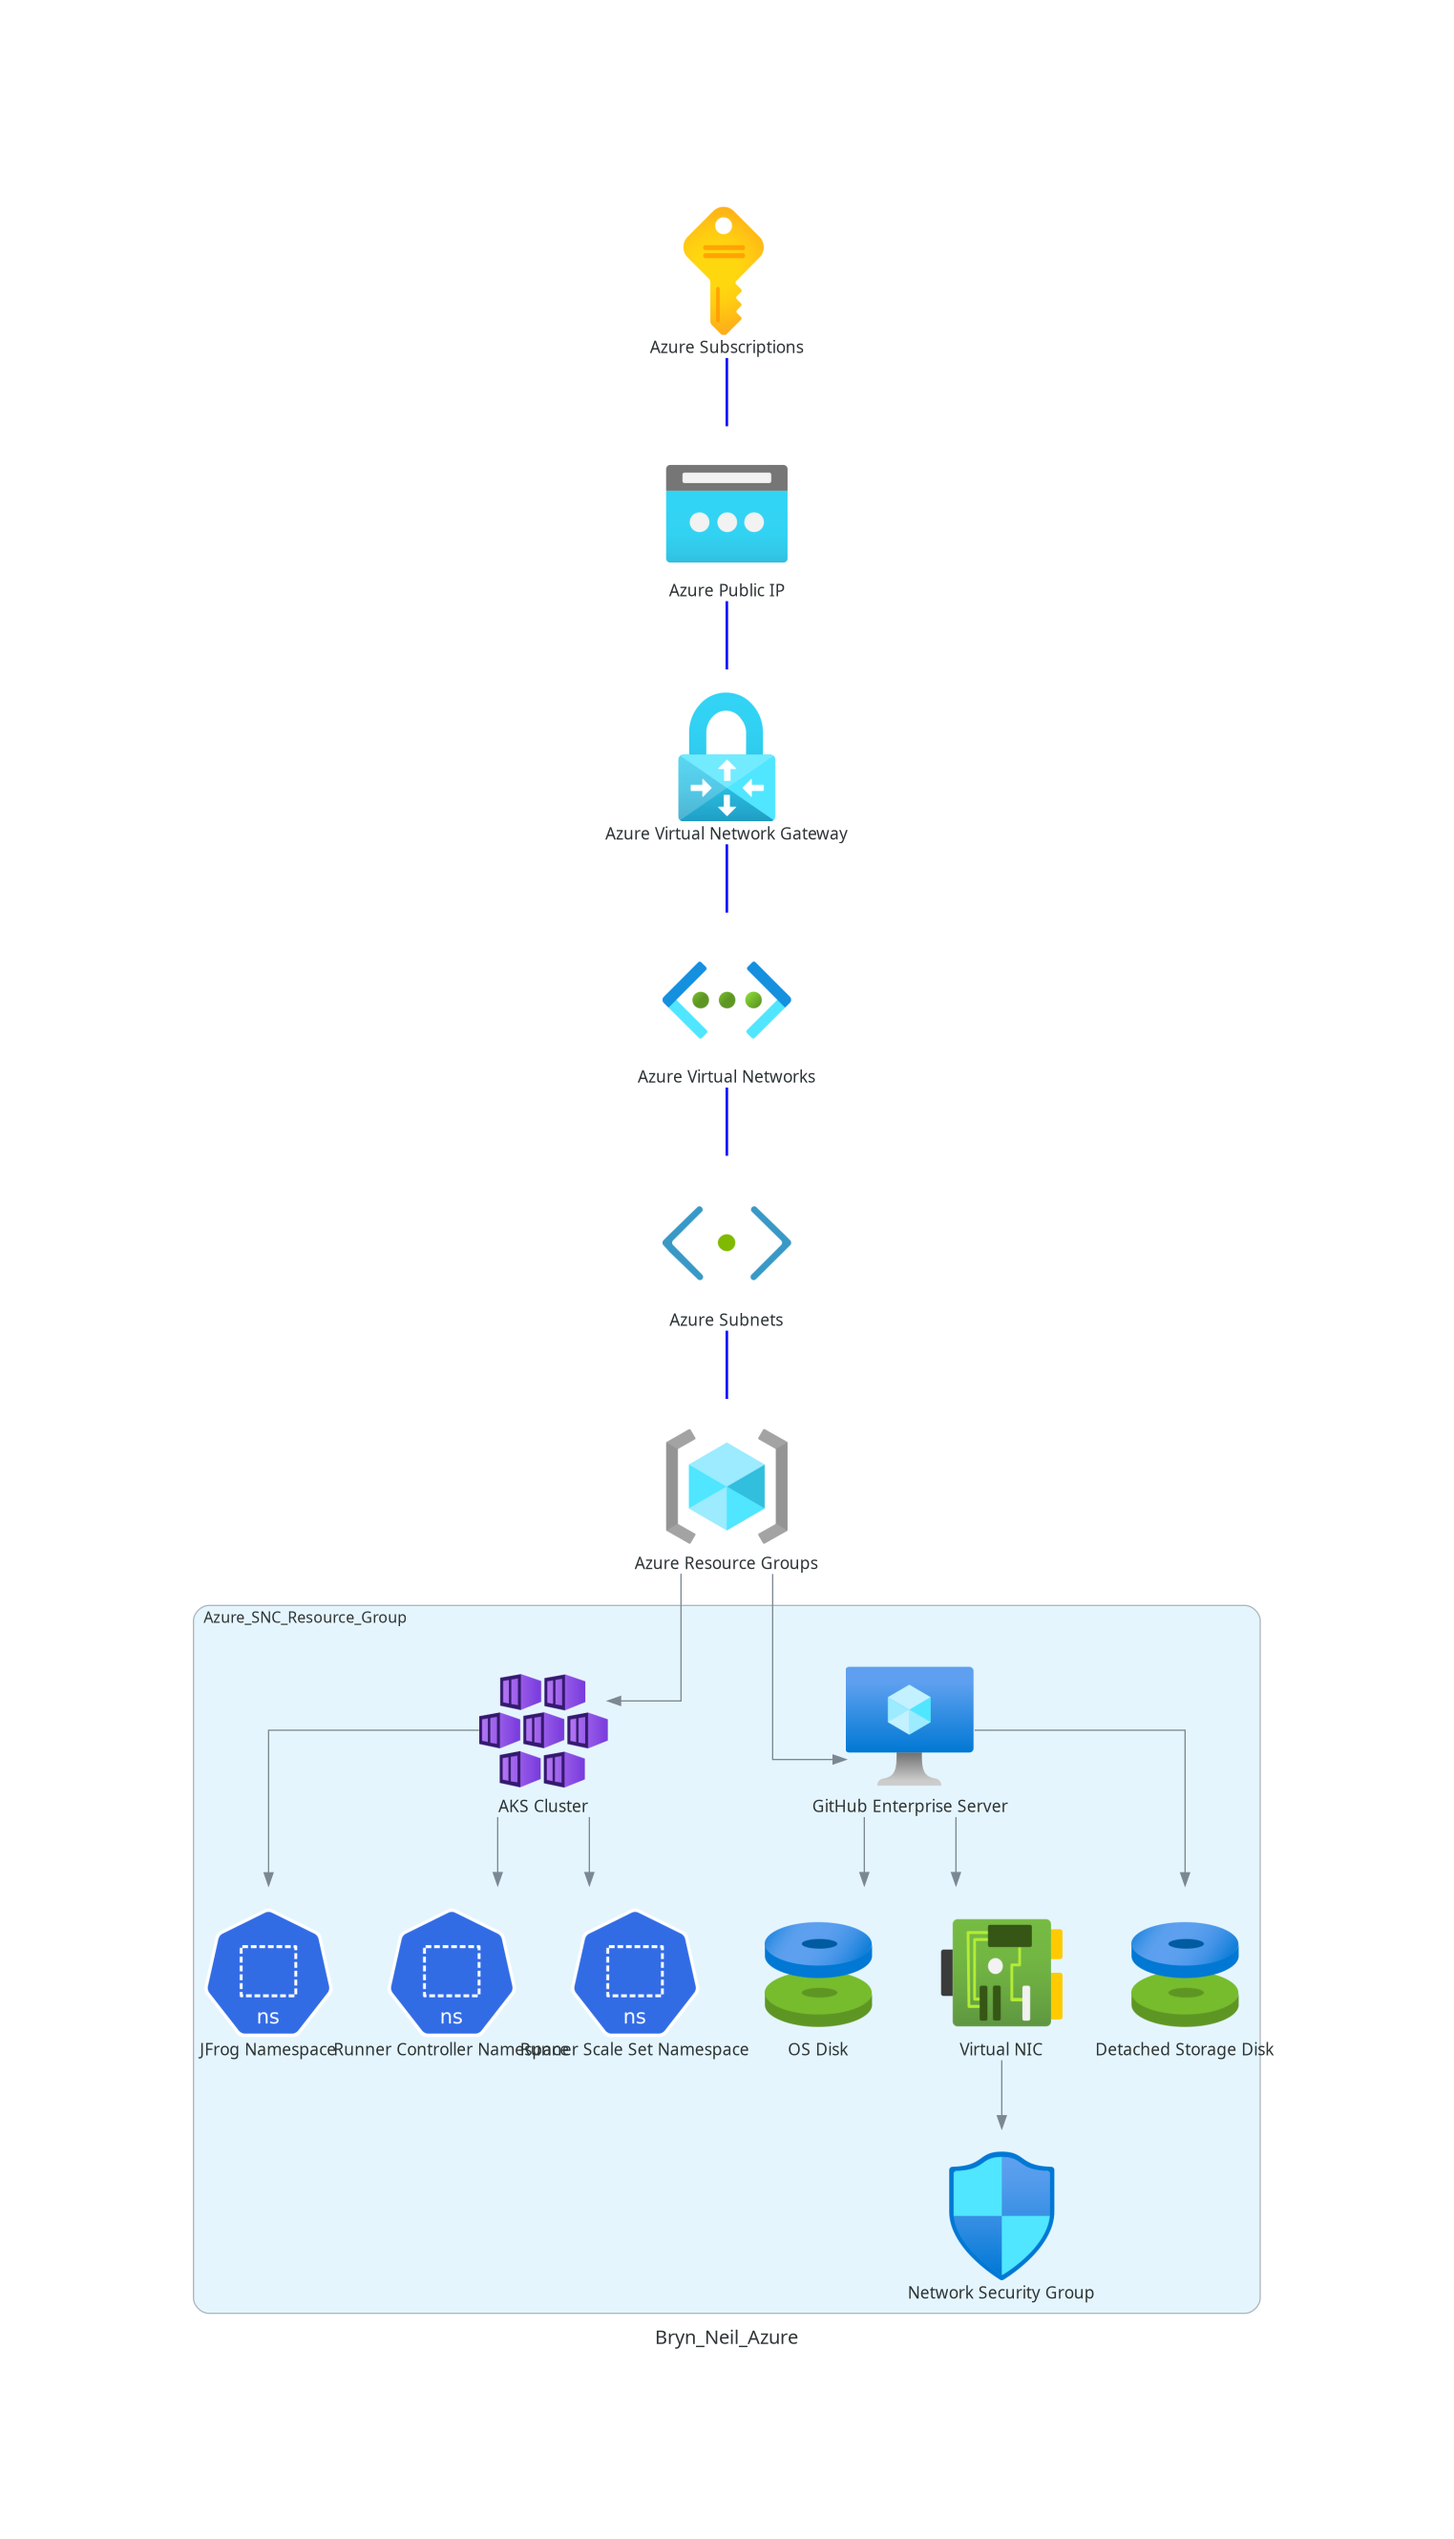
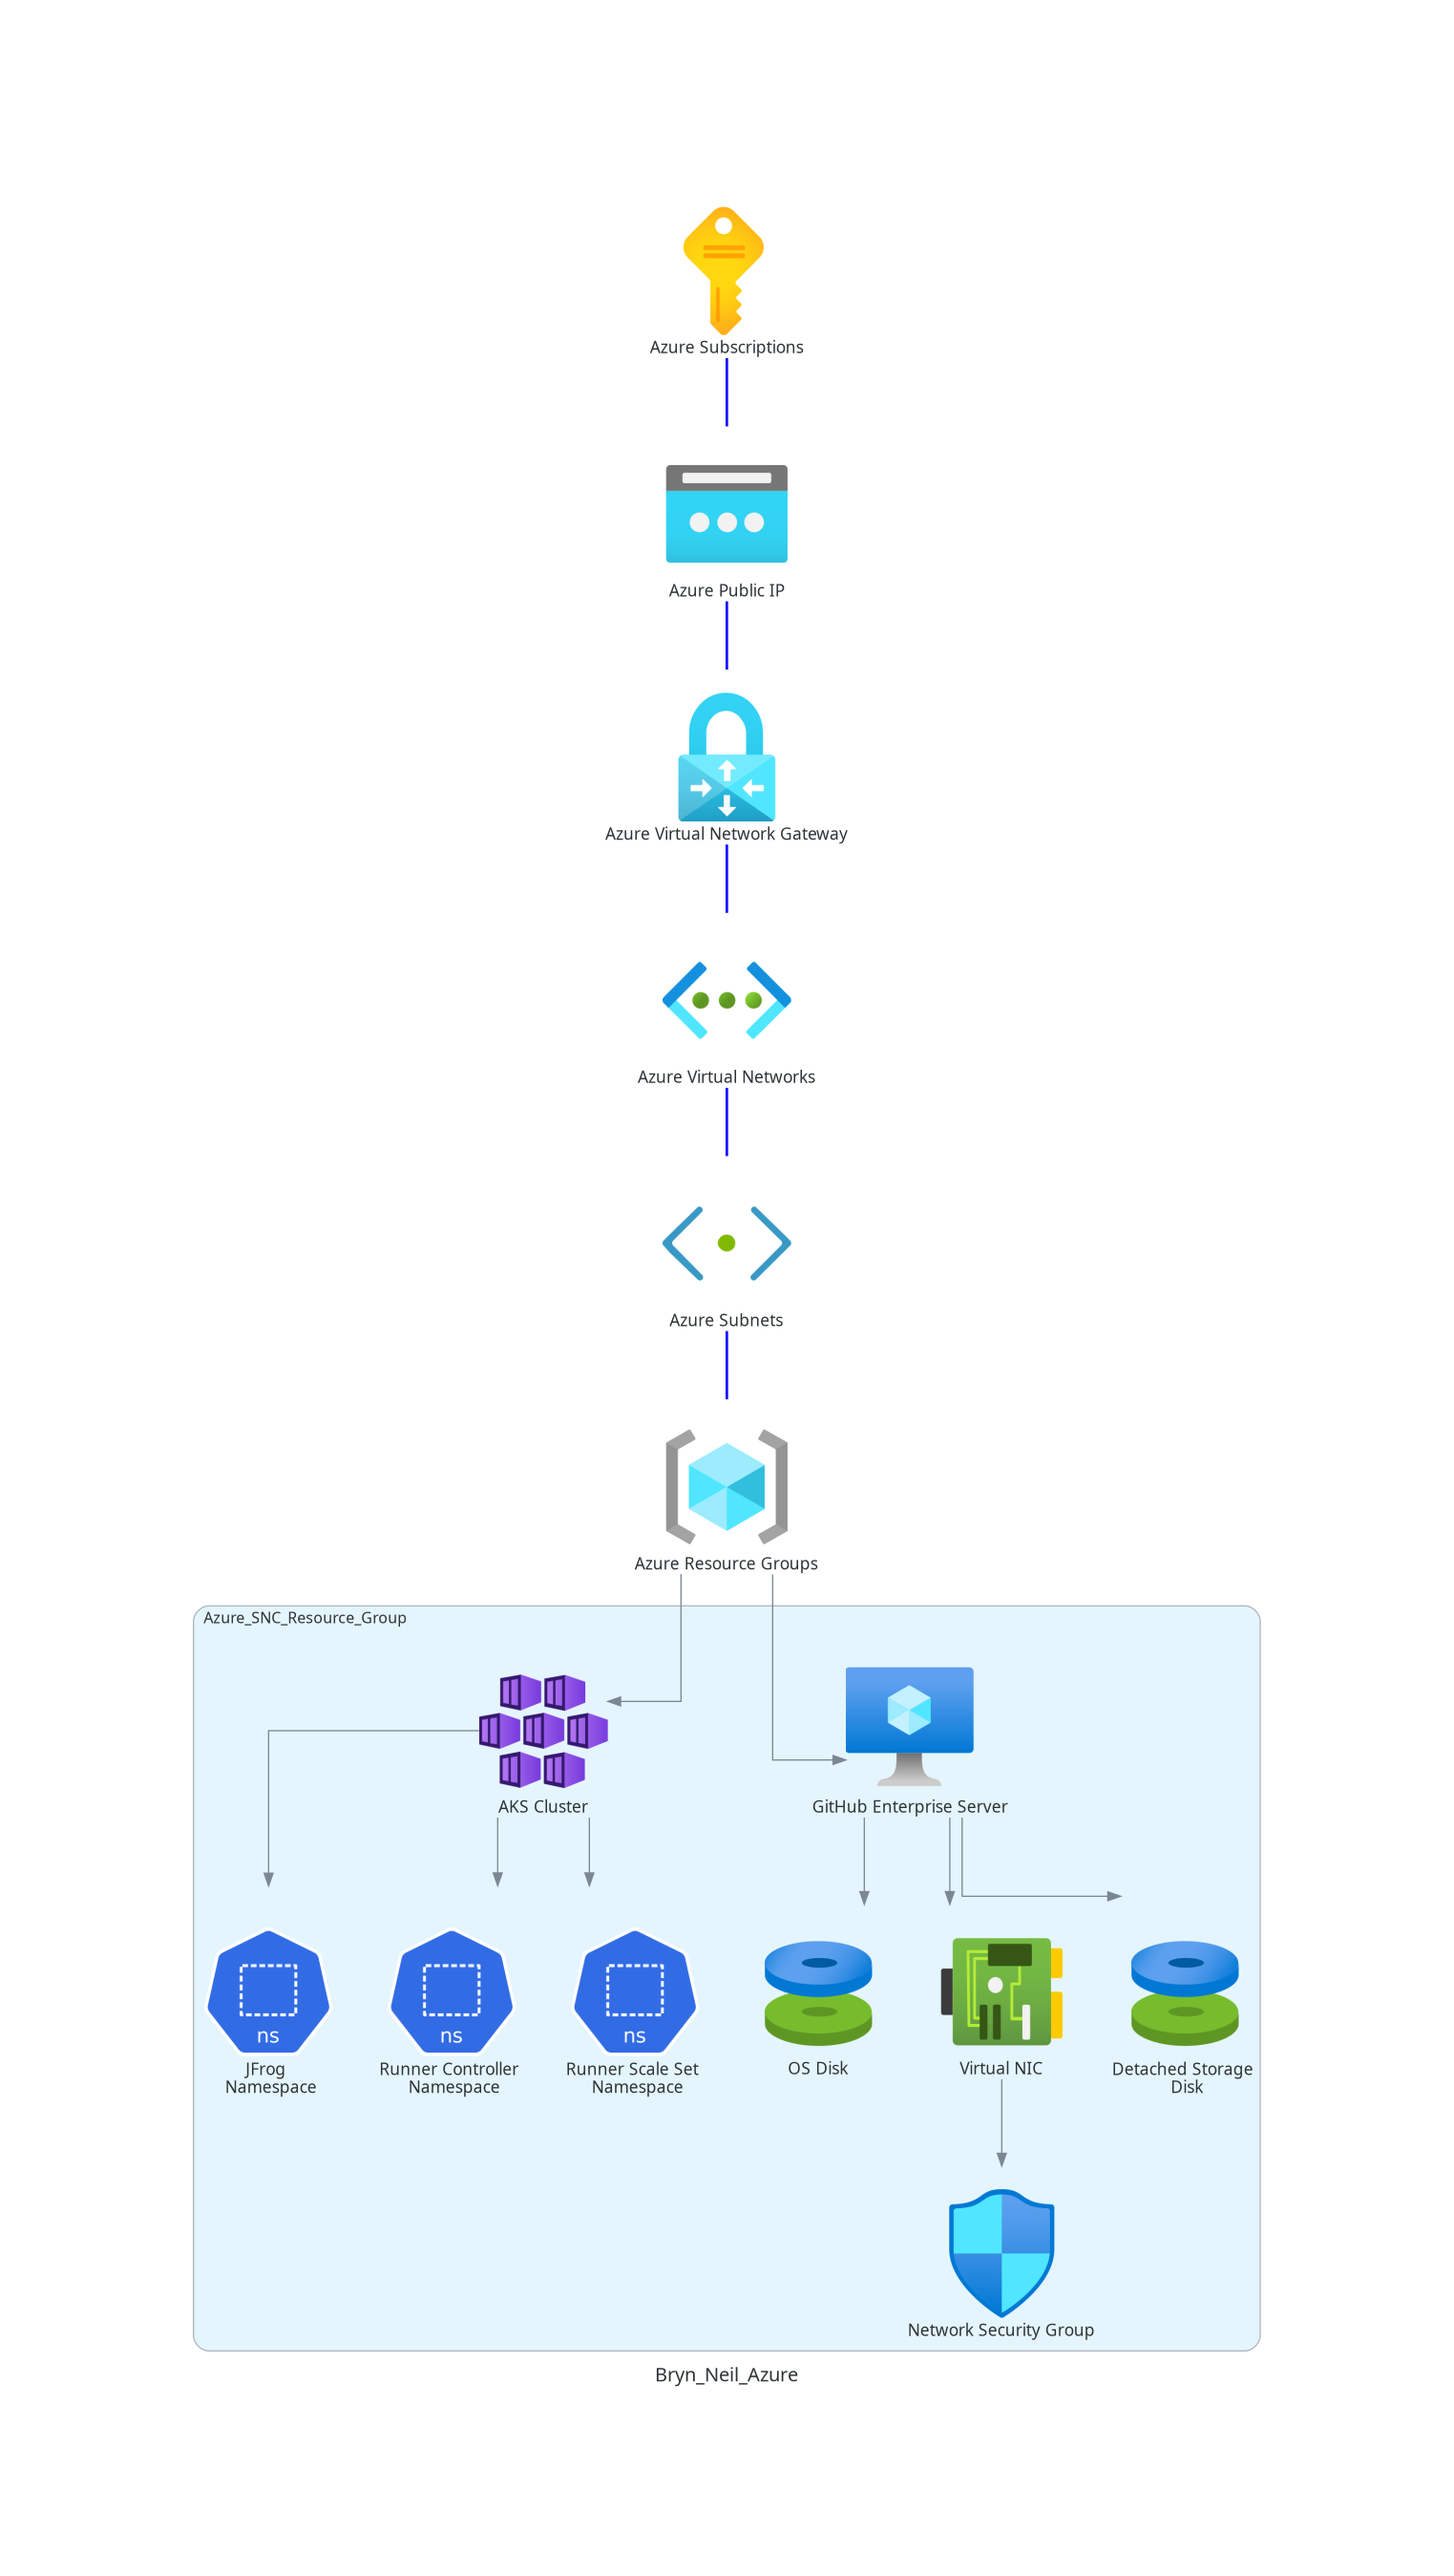
Let's make a diagram.

diff --git a/python_diagrams_vnv/Azure_Diagram.py b/python_diagrams_vnv/Azure_Diagram.py
@@ -23,15 +23,15 @@ with Diagram("Bryn_Neil_Azure", direction="TB", show=False):
     with Cluster("Azure_SNC_Resource_Group"):
         ghes_azure_appliance = diagrams.azure.compute.VM("GitHub Enterprise Server")
         
-        ghes_storage_disk = diagrams.azure.compute.Disks("Detached Storage Disk")
+        ghes_storage_disk = diagrams.azure.compute.Disks("Detached Storage \n Disk")
         ghes_os_disk = diagrams.azure.compute.Disks("OS Disk")
         ghes_vnic = diagrams.azure.network.NetworkInterfaces("Virtual NIC")
         ghes_nsg = diagrams.azure.network.NetworkSecurityGroupsClassic("Network Security Group")
         
         aks_cluster = diagrams.azure.compute.KubernetesServices("AKS Cluster")
-        jfrog_namespace = diagrams.k8s.group.NS("JFrog Namespace")
-        runner_controller_namespace = diagrams.k8s.group.NS("Runner Controller Namespace")
-        runner_scale_set_namespace = diagrams.k8s.group.NS("Runner Scale Set Namespace")
+        jfrog_namespace = diagrams.k8s.group.NS("JFrog \n Namespace")
+        runner_controller_namespace = diagrams.k8s.group.NS("Runner Controller \n Namespace")
+        runner_scale_set_namespace = diagrams.k8s.group.NS("Runner Scale Set \n Namespace")
         
         name_spaces = [jfrog_namespace, 
                         runner_controller_namespace, 
